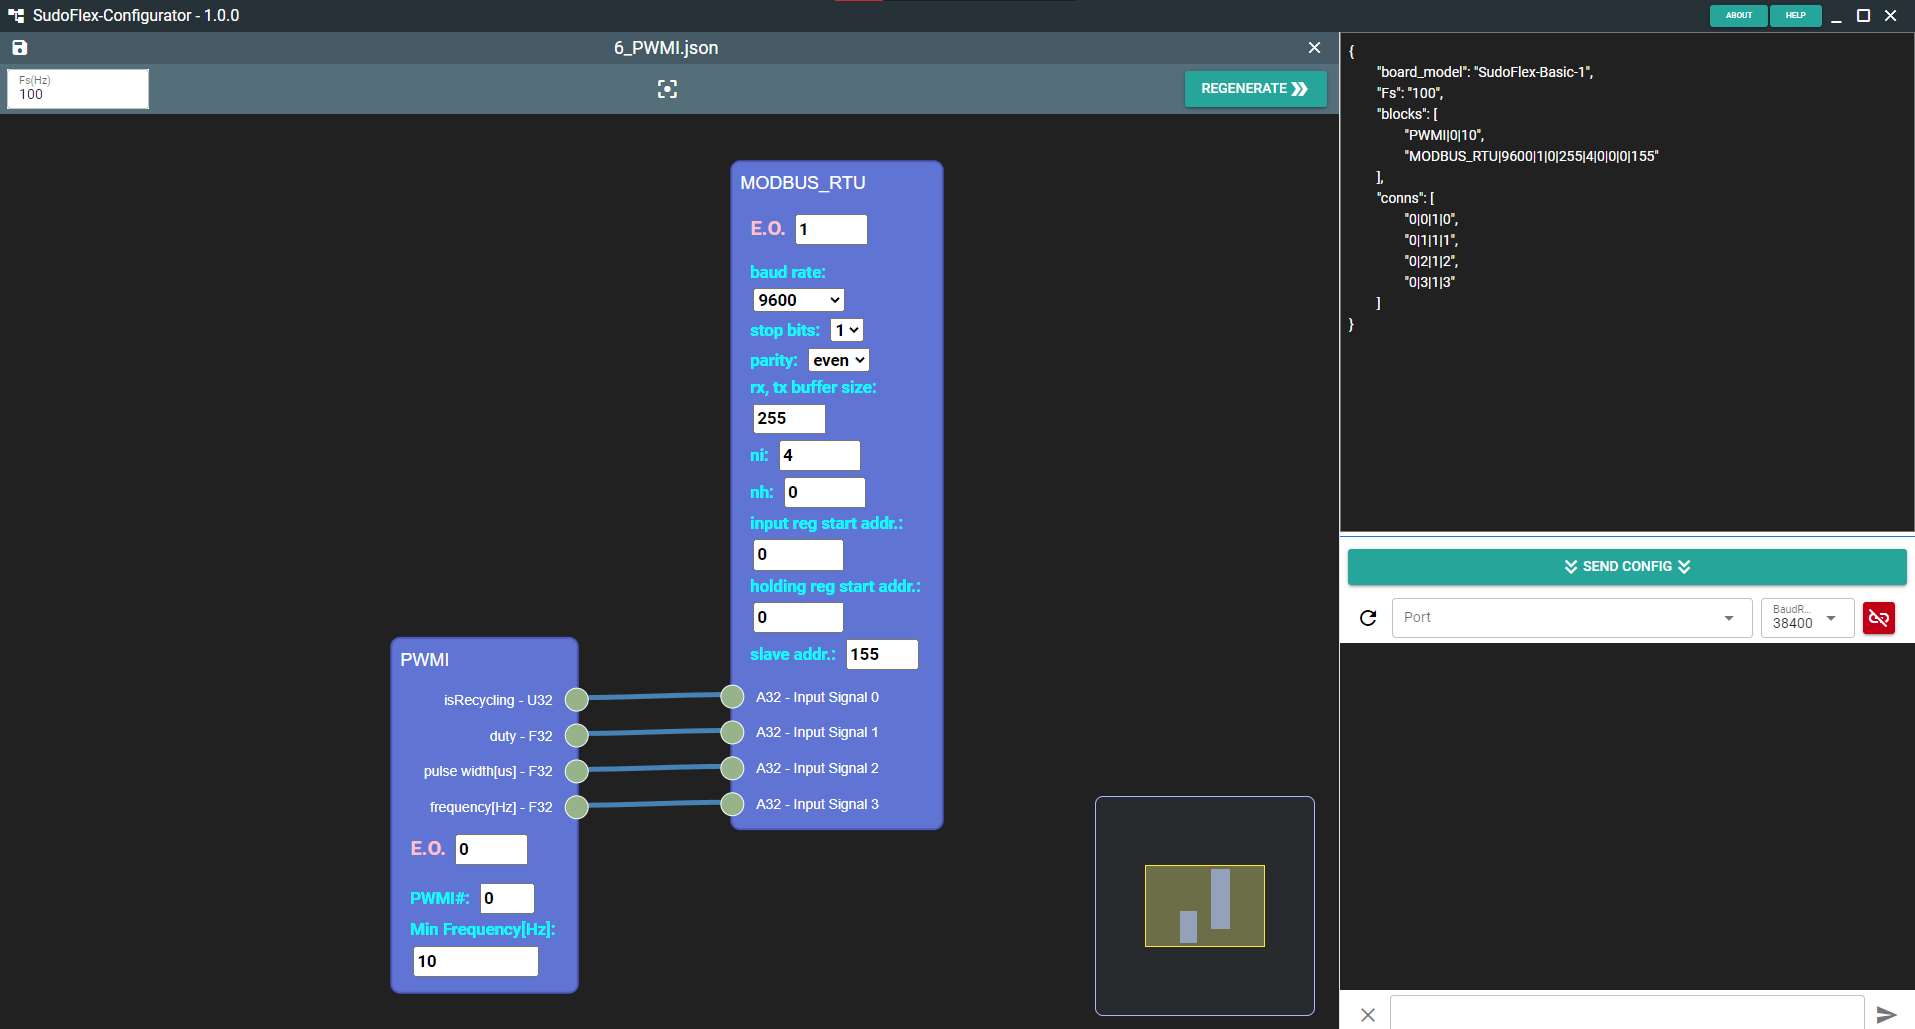
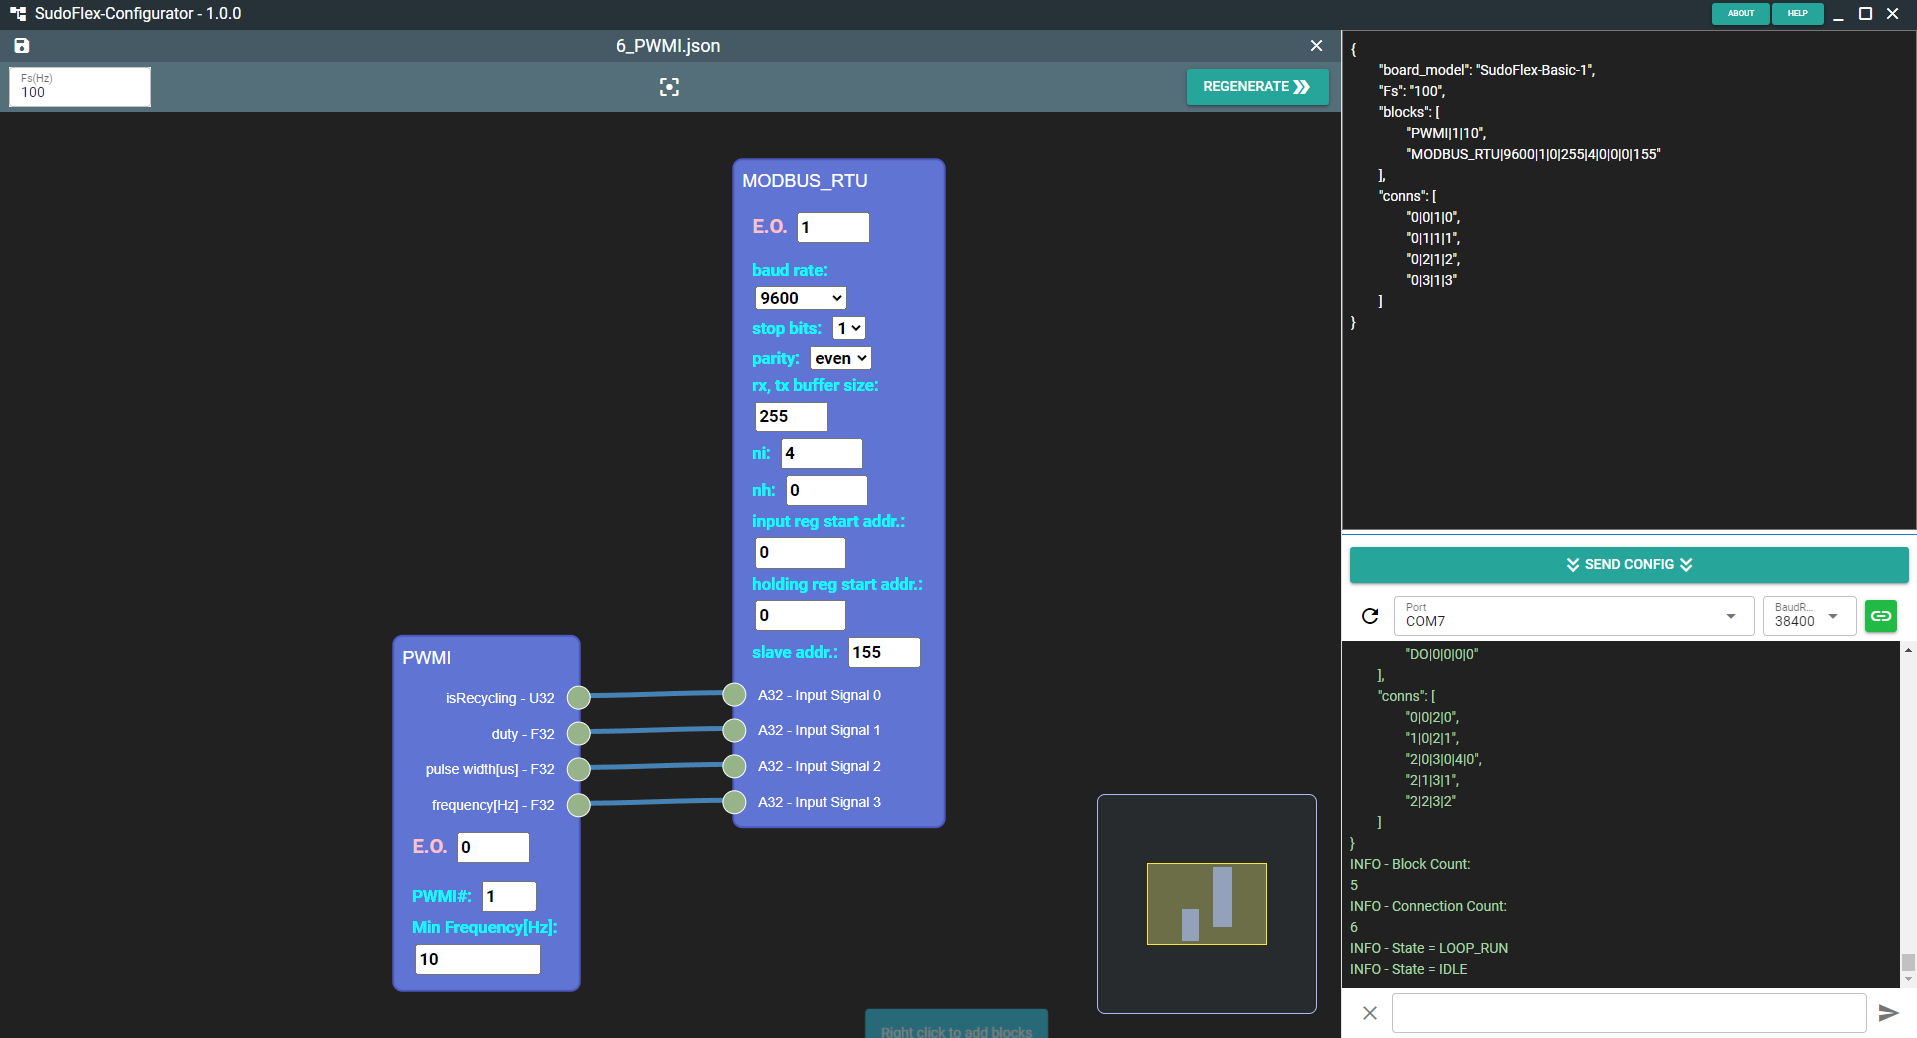
Modified PWMI example

diff --git a/README.md b/README.md
@@ -165,14 +165,14 @@ SFB1 has 10 analog input channels. In this example, a potentiometer is used to c
 ![4_AI_SC](res/4_AI_SC.png)
 
 ## 5-Incremental encoder input with ENC
-SFB1 has two encoder channels. In this example, an incremental encoder reaiding is obtained by ENC block and sent over Modbus.
+SFB1 has two encoder channels. In this example, an incremental encoder reading is obtained by ENC block and sent over Modbus.
 
 ![5_ENC_bb](res/5_ENC_bb.png)
 
 ![5_ENC_SC](res/5_ENC_SC.png)
 
 ## 6-Measuring duty-cycle, pulse-width, and frequency of a signal by PWMI
-Some useful data of a signal like duty-cycle, pulse-width, frequency can be read in real-time by a PWMI block. In this example, a signal is generated by a signal generator and fed to PWMI0 channel of SFB1. Again, obtained data can be traced over Modbus. 
+Some useful data of a signal like duty-cycle, pulse-width, frequency can be read in real-time by a PWMI block. In this example, a signal is generated by a signal generator and fed to PWMI1 channel of SFB1. Again, obtained data can be traced over Modbus. 
 
 ![6_PWMI_bb](res/6_PWMI_bb.png)
 
